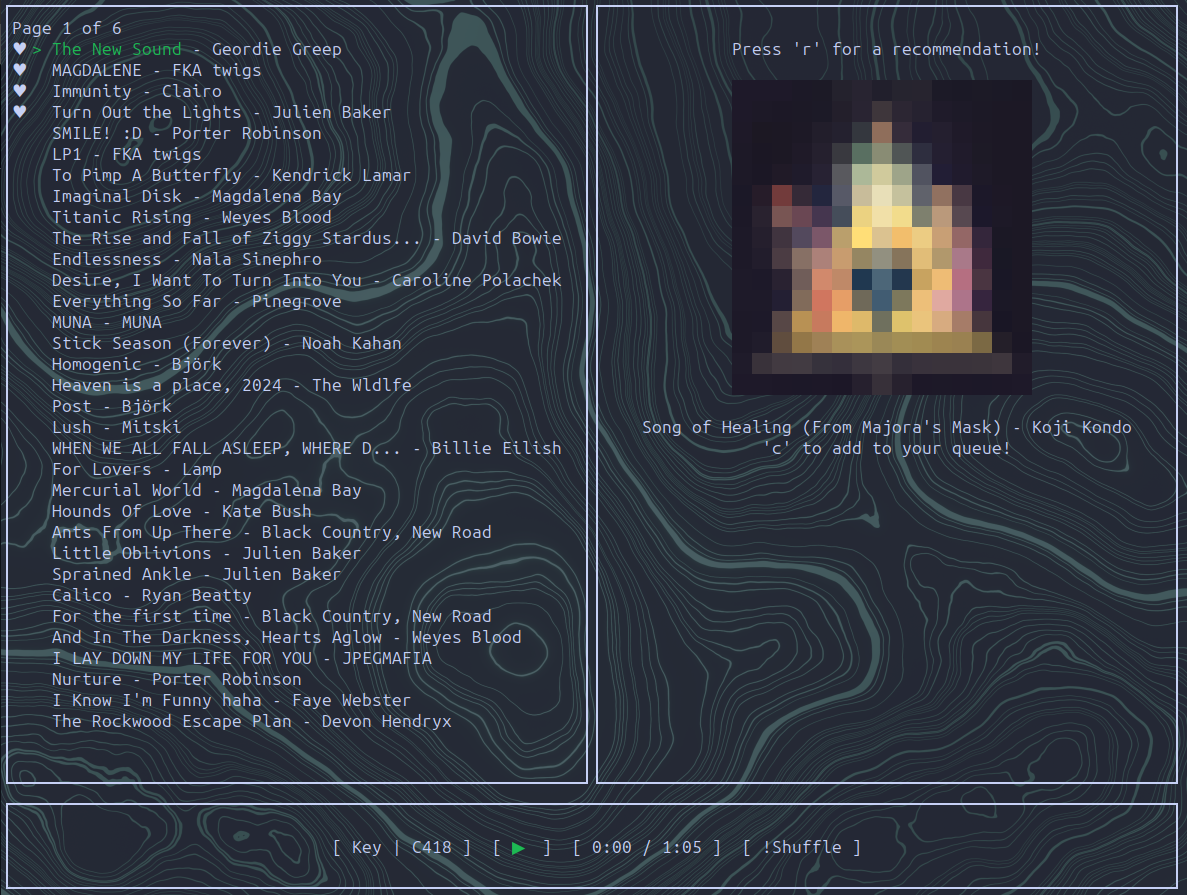
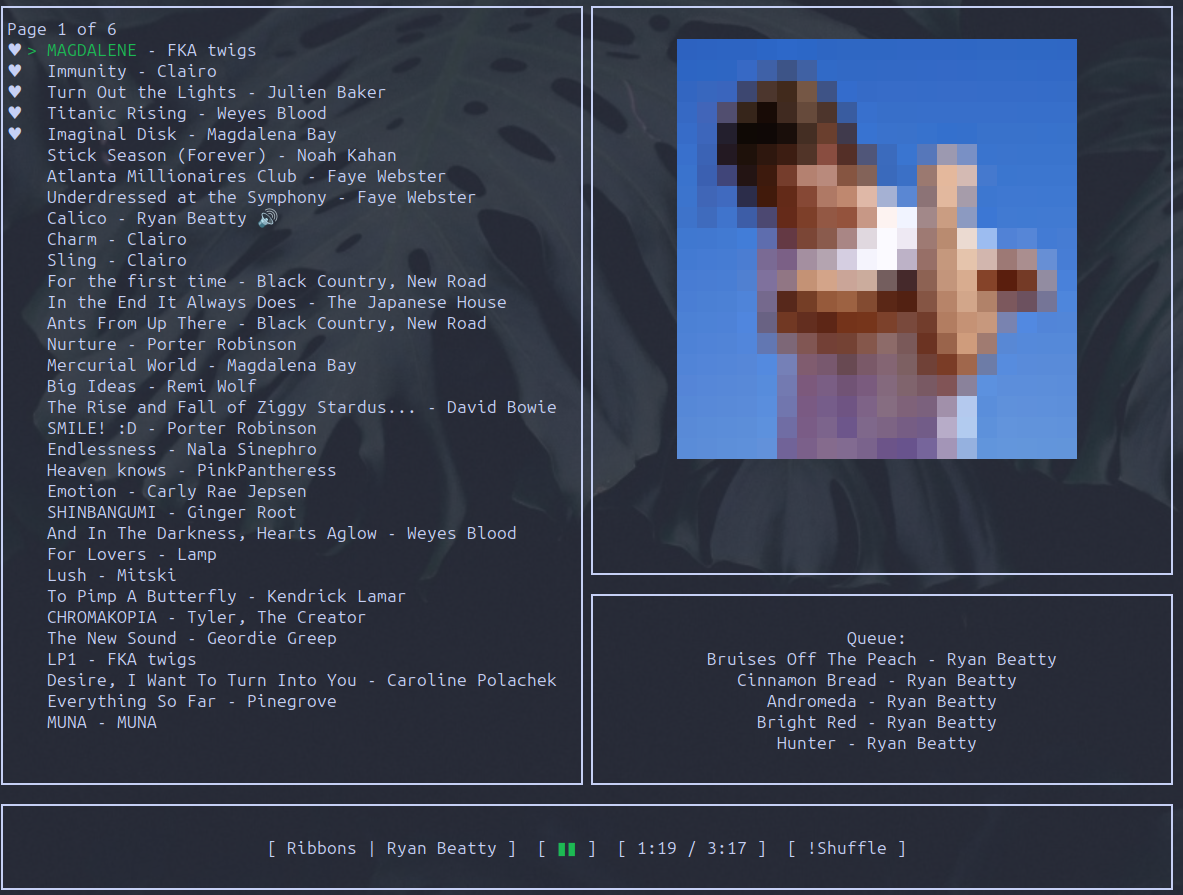
Visual queue (#17)
* queue is gotten, rendered under jukebox, but doesn't update when we change songs.

* Gut reccomendation system, sad to see it go.

* Visual Queue system operational

* Fix playback bug, new screenshot, and some docs updates

diff --git a/main.go b/main.go
@@ -32,7 +32,7 @@ func initialModel(token, listDetail string, favorites []LibraryFavorite) Model {
 var keybinds = map[string]string{}
 
 // spotify api is 180 per minute, counts over a 30 second rolling window. 1 fetch per second will be safe
-const FETCH_TIMER = 1
+const FETCH_TIMER = 2
 
 func (m Model) Init() tea.Cmd {
 	return tea.Batch(
@@ -40,6 +40,7 @@ func (m Model) Init() tea.Cmd {
 		handleGetLibraryTotal(m.token, m.listDetail),
 		scheduleProgressInc(1*time.Second),
 		handleFetchLibrary(m.favorites, m.token, m.listDetail, m.height-LIBRARY_SPACING-len(m.favorites), 0),
+		handleGetQueue(m.token),
 	)
 }
 
@@ -64,21 +65,6 @@ func (m Model) Update(msg tea.Msg) (tea.Model, tea.Cmd) {
 
 		case keybinds["Shuffle"]:
 			handleGenericPut("/me/player/shuffle", m.token, map[string]string{"state": fmt.Sprintf("%t", !m.state.ShuffleState)}, nil)
-			return m, nil
-
-		case keybinds["Recommendation"]:
-			if m.state.Item.ID != "" {
-				data := handleGenericFetch[SpotifyRecommendations]("/recommendations", m.token, map[string]string{"seed_tracks": m.state.Item.ID, "limit": "1"}, nil)
-				m.reccomendation = data
-				m.image = makeNewImage(m.reccomendation.Tracks[0].Album.Image[0].URL)
-			}
-			return m, nil
-
-		case keybinds["Add to Queue"]:
-			if len(m.reccomendation.Tracks) > 0 {
-				handleGenericPost("/me/player/queue", m.token, map[string]string{"uri": m.reccomendation.Tracks[0].URI}, nil)
-			}
-			m.image = makeNewImage(m.state.Item.Album.Images[0].URL) // Reset image to current song.
 			return m, nil
 
 		case keybinds["Favorites"]:
@@ -113,7 +99,7 @@ func (m Model) Update(msg tea.Msg) (tea.Model, tea.Cmd) {
 		case keybinds["Next Page"]:
 			m.loading = true
 			if m.offset+m.height-LIBRARY_SPACING-len(m.favorites) < m.apiTotal {
-				if m.offset == 0 { // IDK why this is necessary, but its the only way i got it working.
+				if m.offset == 0 {
 					m.offset += m.height - (UI_LIBRARY_SPACE + len(m.favorites))
 				} else {
 					m.offset += m.height - (UI_LIBRARY_SPACE + len(m.favorites)) - 3
@@ -155,6 +141,8 @@ func (m Model) Update(msg tea.Msg) (tea.Model, tea.Cmd) {
 		if len(msg.Item.Album.Images) > 0 {
 			if m.state.Item.Name != msg.Item.Name {
 				m.image = makeNewImage(msg.Item.Album.Images[0].URL)
+				m.state = msg
+				return m, tea.Batch(scheduleNextFetch(FETCH_TIMER*time.Second), CheckTokenExpiryCmd(m), handleGetQueue(m.token))
 			}
 		}
 		m.state = msg
@@ -190,6 +178,14 @@ func (m Model) Update(msg tea.Msg) (tea.Model, tea.Cmd) {
 			m.loading = false
 		}
 
+	case Queue:
+		const QUEUE_LENGTH = 5
+		if len(msg.Queue) > QUEUE_LENGTH {
+			msg.Queue = msg.Queue[:QUEUE_LENGTH]
+		}
+		m.queue = msg
+		return m, nil
+
 	case error:
 		m.errMsg = msg.Error()
 		m.loading = false
@@ -208,12 +204,10 @@ func (m Model) Update(msg tea.Msg) (tea.Model, tea.Cmd) {
 
 		return m, scheduleProgressInc(1 * time.Second)
 	}
-
 	return m, nil
 }
 
 func (m Model) View() string {
-	//TODO: this is calling GetSize every view. Store it in our model.
 	width, height, err := term.GetSize(int(os.Stdout.Fd()))
 	if err != nil {
 		log.Fatalf("Failed to get terminal size: %v", err)
@@ -222,15 +216,19 @@ func (m Model) View() string {
 	boxHeight := height - UI_LIBRARY_SPACE
 	playBackWidth := width - 2
 
-	libText, playback, reccDetails := getUiElements(m, boxWidth)
+	libText, playback, image, visQueue := getUiElements(m, boxWidth)
+
+	visQueueHeight := 8
+	jukeboxHeight := boxHeight - visQueueHeight - 2
 
 	library := libraryStyle.Width(boxWidth).Height(boxHeight).Render(libText)
-	jukebox := boxStyle.Width(boxWidth).Height(boxHeight).Render(reccDetails)
+	jukebox := boxStyle.Width(boxWidth).Height(jukeboxHeight).Render(image)
 	playbackBar := boxStyle.Width(playBackWidth).Height(1).Render(playback)
+	visualQueue := boxStyle.Width(boxWidth).Height(visQueueHeight).Render(visQueue)
 
 	return lipgloss.JoinVertical(
 		lipgloss.Left,
-		lipgloss.JoinHorizontal(lipgloss.Top, library, jukebox),
+		lipgloss.JoinHorizontal(lipgloss.Top, library, lipgloss.JoinVertical(lipgloss.Left, jukebox, visualQueue)),
 		playbackBar,
 	)
 }

diff --git a/uiUtil.go b/uiUtil.go
@@ -107,7 +107,7 @@ func makeNewImage(url string) string {
 	if err != nil {
 		fmt.Println("Error:", err)
 	}
-	const targetWidth, targetHeight = 15, 15
+	const targetWidth, targetHeight = 20, 20
 
 	return printImage(resizeImage(img, targetWidth, targetHeight))
 }
@@ -115,11 +115,11 @@ func makeNewImage(url string) string {
 // UI Elements
 
 // Get the UI elements for display
-func getUiElements(m Model, boxWidth int) (string, string, string) {
-	return getLibText(m, boxWidth), getPlayBack(m), getReccDetails(m)
+func getUiElements(m Model, boxWidth int) (string, string, string, string) {
+	return getLibText(m, boxWidth), getPlayBack(m), m.image, getVisualQueue(m, boxWidth)
 }
 
-// Get the library text for display
+// Generate the library text for display
 func getLibText(m Model, boxWidth int) string {
 	libText := ""
 	if m.libraryList == nil {
@@ -155,7 +155,7 @@ func getLibText(m Model, boxWidth int) string {
 	return libText
 }
 
-// Get the playback text for display
+// Generate the playback text for display
 func getPlayBack(m Model) string {
 	status := "▶ "
 	if m.state.IsPlaying {
@@ -173,13 +173,21 @@ func getPlayBack(m Model) string {
 	}
 }
 
-// Get the reccomendation details for display
-func getReccDetails(m Model) string {
-	recommendationDetails := "Press '" + keybinds["Recommendation"] + "' for a recommendation!\n\n" + m.image + "\n"
-	if len(m.reccomendation.Tracks) > 0 {
-		recommendationDetails += fmt.Sprintf(
-			"%s - %s\n '%s' to add to your queue!", m.reccomendation.Tracks[0].Name, m.reccomendation.Tracks[0].Artists[0].Name, keybinds["Add to Queue"],
-		)
+// Generate the visual queue for display
+func getVisualQueue(m Model, boxWidth int) string {
+	queue := "Queue:\n"
+	queueLen := len(m.queue.Queue)
+	SEP := " - "
+	for i, item := range m.queue.Queue {
+		nameLen := len(item.Name)
+		artistLen := len(item.Artists[0].Name)
+		if len(SEP)+nameLen+artistLen > boxWidth {
+			item.Name = truncate(item.Name, boxWidth-3-artistLen)
+		}
+		queue += fmt.Sprintf("%s - %s", item.Name, item.Artists[0].Name)
+		if i < queueLen-1 {
+			queue += "\n"
+		}
 	}
-	return recommendationDetails
+	return queue
 }

diff --git a/models.go b/models.go
@@ -29,9 +29,6 @@ type Model struct {
 	//Whether or not we're currently fetching access token initially
 	loading bool
 
-	//Current recommendation, if any.
-	reccomendation SpotifyRecommendations
-
 	//List detail, either "album" or "playlist".
 	listDetail string
 
@@ -58,6 +55,9 @@ type Model struct {
 
 	// Favorites list
 	favorites []LibraryFavorite
+
+	// Queue list
+	queue Queue//This isnt what itll be
 }
 
 // playbackMsg tells the update to fetch playback state.
@@ -85,22 +85,6 @@ type SpotifyTokenResponse struct {
 	TokenType    string `json:"token_type"`
 	ExpiresIn    int    `json:"expires_in"`
 	RefreshToken string `json:"refresh_token,omitempty"`
-}
-
-// SpotifyRecommendations struct for parsing the recommendations response.
-type SpotifyRecommendations struct {
-	Tracks []struct {
-		Name    string `json:"name"`
-		Artists []struct {
-			Name string `json:"name"`
-		} `json:"artists"`
-		URI   string `json:"uri"`
-		Album struct {
-			Image []struct {
-				URL string `json:"url"`
-			} `json:"images"`
-		} `json:"album"`
-	} `json:"tracks"`
 }
 
 // PlaybackState struct for parsing the playback state response.
@@ -194,4 +178,21 @@ type LibraryFavorite struct {
 	Title  string `json:"title"`
 	Author string `json:"author"`
 	URI    string `json:"URI"`
+}
+
+
+type Queue struct {
+	Queue []QueueItem `json:"queue"`
+}
+
+type QueueItem struct {
+	Href       string `json:"href"`
+	ID         string `json:"id"`
+	Name       string `json:"name"`
+	Type       string `json:"type"`
+	URI        string `json:"uri"`
+	IsLocal    bool   `json:"is_local"`
+	Artists	[]struct {
+		Name string `json:"name"`
+	} `json:"artists"`
 }

diff --git a/json.go b/json.go
@@ -12,6 +12,7 @@ import (
 // Specifically, it contains the functionality for reading and writing our favorite library items to a JSON file.
 // There will be 2 files. One for albums, one for playlists.
 
+// Read the JSON file and return a slice of LibraryFavorite structs.
 func readJSON(filePath string) ([]LibraryFavorite, bool) {
 	file, err := os.Open(filePath)
 	if err != nil {
@@ -29,6 +30,7 @@ func readJSON(filePath string) ([]LibraryFavorite, bool) {
 	return favorites, true
 }
 
+// Use os.WriteFile to write a new favorite to the JSON file.
 func writeJSONFile(filePath string, favorite LibraryFavorite) bool {
 	file, err := os.Open(filePath)
 	if err != nil {
@@ -64,6 +66,7 @@ func writeJSONFile(filePath string, favorite LibraryFavorite) bool {
 	return true
 }
 
+// Use os.WriteFile to remove a favorite from the JSON file.
 func removeFromJSON(filePath string, oldFavorite LibraryFavorite) bool {
 	fileData, err := os.ReadFile(filePath)
 	if err != nil {
@@ -95,6 +98,7 @@ func removeFromJSON(filePath string, oldFavorite LibraryFavorite) bool {
 	return true
 }
 
+// Use os.WriteFile to create an empty JSON file.
 func createEmptyJSONFile(filePath string) bool {
 	emptyData := []byte("[]")
 	if err := os.WriteFile(filePath, emptyData, 0644); err != nil {

diff --git a/spotifyHandlers.go b/spotifyHandlers.go
@@ -148,7 +148,7 @@ func handleFetchLibrary(favorites []LibraryFavorite, token string, listDetail st
 //
 // Parameters:
 // - token: Spotify access token.
-// - playlistID: The ID of the playlist to fetch.
+// - listDetail: The type of playlist to fetch (album or playlist).
 //
 // Returns:
 // - The fetched playlist.
@@ -161,5 +161,18 @@ func handleGetLibraryTotal(token string, listDetail string) tea.Cmd {
 			playlist := handleGenericFetch[SpotifyPlaylist]("/me/playlists", token, map[string]string{"limit": "1"}, nil)
 			return playlist.Total
 		}
+	}
+}
+
+
+// handleFetchPlaylist fetches a playlist from the Spotify API.
+//
+// Parameters:
+// - token: Spotify access token.
+
+func handleGetQueue(token string) tea.Cmd {
+	return func() tea.Msg {
+		queue := handleGenericFetch[Queue]("/me/player/queue", token, nil, nil)
+		return queue
 	}
 }

diff --git a/log.go b/log.go
@@ -8,6 +8,8 @@ import (
 // log.go
 // This file contains all logging functionality.
 
+// errorLogger logs errors to the error.log file.
+// It is used to log errors that occur during the execution of the program.
 var errorLogger = func() *log.Logger {
 	file, err := os.OpenFile("errors.log", os.O_APPEND|os.O_CREATE|os.O_WRONLY, 0666)
 	if err != nil {
@@ -16,6 +18,8 @@ var errorLogger = func() *log.Logger {
 	return log.New(file, "ERROR: ", log.Ldate|log.Ltime|log.Lshortfile)
 }()
 
+// infoLogger is a logger that writes to a file called info.log.
+// It is used to log non-error information, such as successful operations.
 var infoLogger = func() *log.Logger {
 	file, err := os.OpenFile("info.log", os.O_APPEND|os.O_CREATE|os.O_WRONLY, 0666)
 	if err != nil {

diff --git a/util.go b/util.go
@@ -63,8 +63,6 @@ func setKeybinds() {
 		"Play/Pause":     queryEnv("PLAYPAUSE", "p"),
 		"Skip":           queryEnv("SKIP", "n"),
 		"Shuffle":        queryEnv("SHUFFLE", "s"),
-		"Recommendation": queryEnv("RECOMMENDATION", "r"),
-		"Add to Queue":   queryEnv("ADDTOQUEUE", "c"),
 		"Favorites":      queryEnv("FAVORITES", "f"),
 		"Cursor Up":      "up",
 		"Cursor Down":    "down",

diff --git a/README.md b/README.md
@@ -1,14 +1,14 @@
 # JukeTUI
 
-JukeTUI is a command-line interface (TUI) application that allows users to control Spotify, manage playback, and receive music recommendations through an intuitive jukebox system.
+JukeTUI is a command-line interface (TUI) application that allows users to control Spotify, manage playback, and view pixelated versions of their album covers through an intuitive jukebox system.
 
 ![JukeTUI App Preview](/screenshots/app-preview.png)
 
 ### Features:
 
-- Jukebox: Get tailored song recommendations based on your currently playing track and easily queue songs for seamless listening.
 - Library: Browse your Spotify music library, including albums and playlists, and play your favorite tracks directly from the app.
 - Playback Bar: Effortlessly manage your music with controls to play, pause, skip tracks, and view what’s currently playing.
+- Pixelated album covers: Your favorite album covers are displayed while music is playing, adding a retro touch to your listening experience.
 
 ## Setup
 
@@ -40,7 +40,7 @@ SPOTIFY_SECRET="{ From the developer dashboard }"
 SPOTIFY_PREFERENCE="{ Either 'album' or 'playlist' }"
 ```
 
-- Spotify ID and Cecret are for Spotify API auth
+- Spotify ID and Secret are for Spotify API auth
 - Spotify Preference will alter what is displayed in the library. Your saved albums or your saved playlists.
 
 ## Use
@@ -64,11 +64,6 @@ Playback
 - Play/Pause: p
 - Skip: n
 - Toggle shuffle: s
-
-Jukebox
-
-- Get recommendation: r
-- Add recommendation to queue: c
 
 #### Custom Keybinds
 
